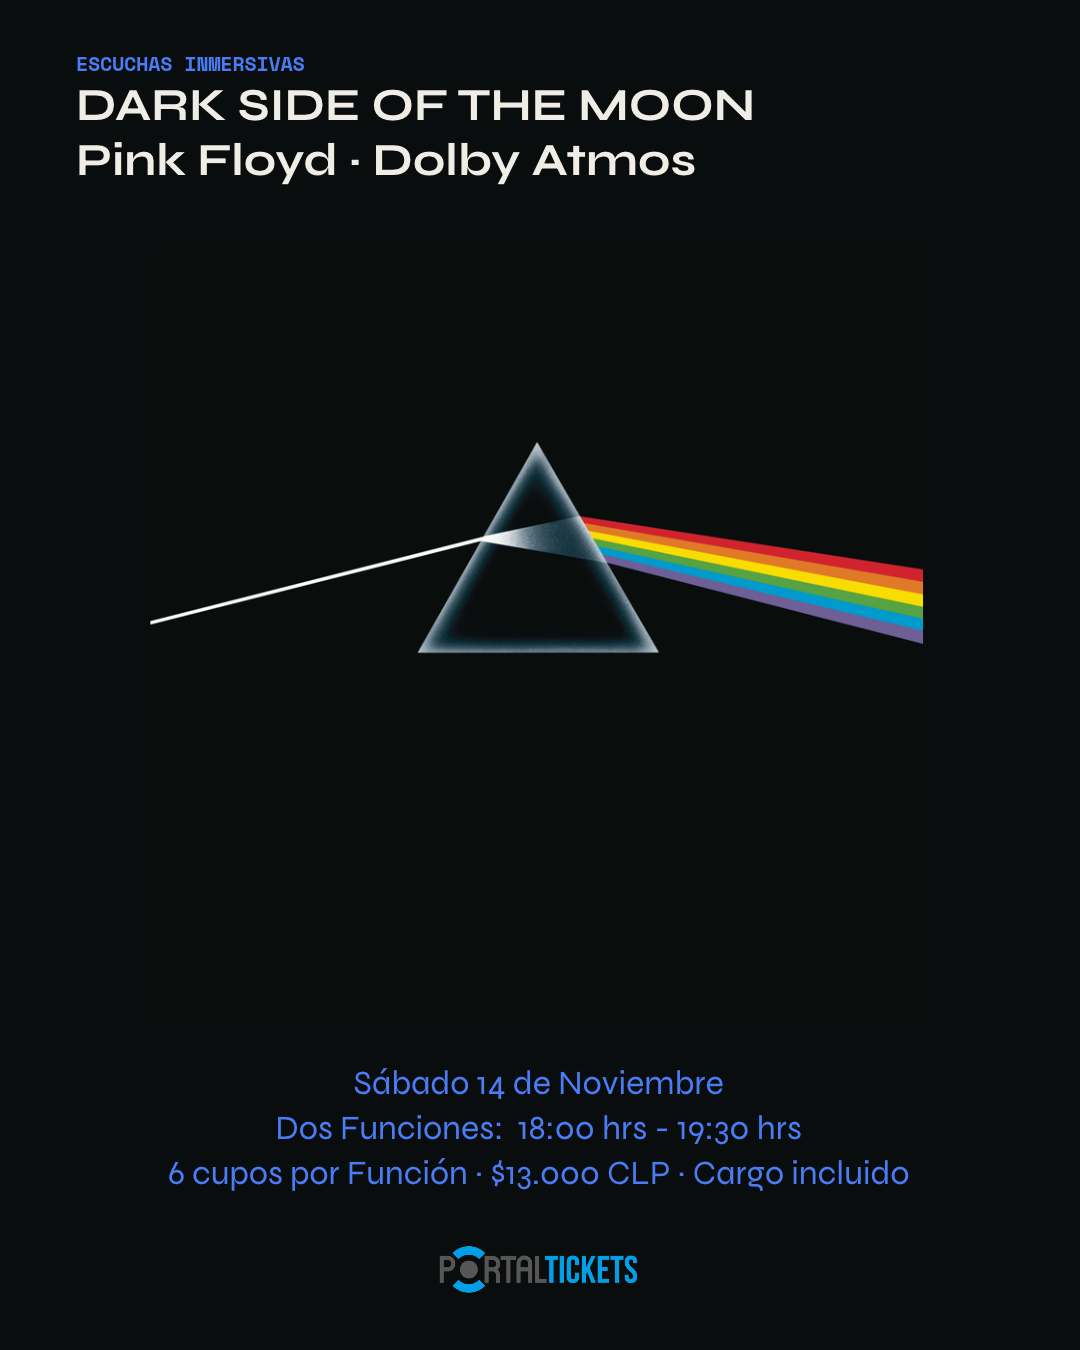
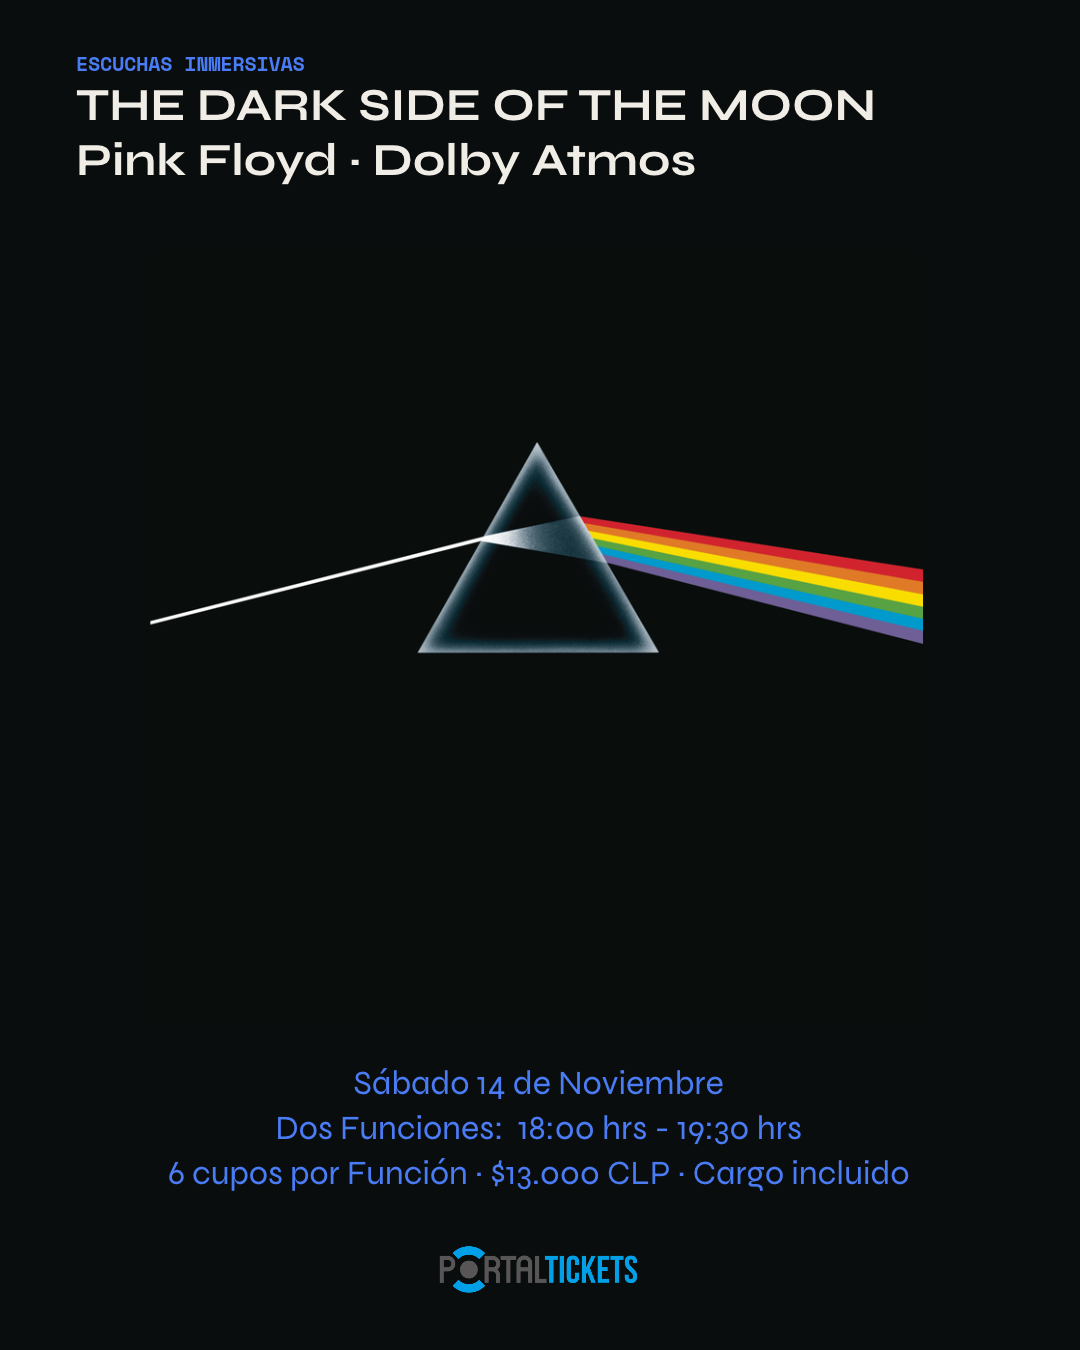
Aplica título "The Dark Side of the Moon" y flyer corregido
El commit anterior solo renombró el archivo; este incluye el texto y la
imagen actualizados.

Changed region(s): [[0.0611, 0.0622, 0.825, 0.0933]]

diff --git a/components/EscuchasInmersivas.tsx b/components/EscuchasInmersivas.tsx
@@ -25,19 +25,19 @@ export default function EscuchasInmersivas() {
             <div className="bg-medianoche border-t-2 border-senal p-6 md:p-8 text-center h-full flex flex-col">
               <div className="relative mb-6">
                 <Image
-                  src="/escuchas-inmersivas-dark-side-14-noviembre.png"
+                  src="/escuchas-inmersivas-the-dark-side-14-noviembre.png"
                   width={1080}
                   height={1350}
                   sizes="(min-width: 640px) 320px, 90vw"
                   className="w-full h-auto"
-                  alt="Dark Side of the Moon · Pink Floyd · Escuchas Inmersivas en Estudio Serena, sábado 14 de noviembre"
+                  alt="The Dark Side of the Moon · Pink Floyd · Escuchas Inmersivas en Estudio Serena, sábado 14 de noviembre"
                 />
                 <span className="absolute top-3 right-3 bg-abismo/90 border border-senal text-senal font-mono text-[11px] tracking-[0.14em] px-3 py-1">
                   AGOTADO
                 </span>
               </div>
               <h3 className="font-syne text-lg md:text-xl lg:text-sm font-extrabold text-crema leading-tight mb-2">
-                Dark Side of the Moon
+                The Dark Side of the Moon
               </h3>
               <p className="font-mono text-[11px] tracking-[0.12em] text-senal mb-6">
                 Pink Floyd · Dolby Atmos
